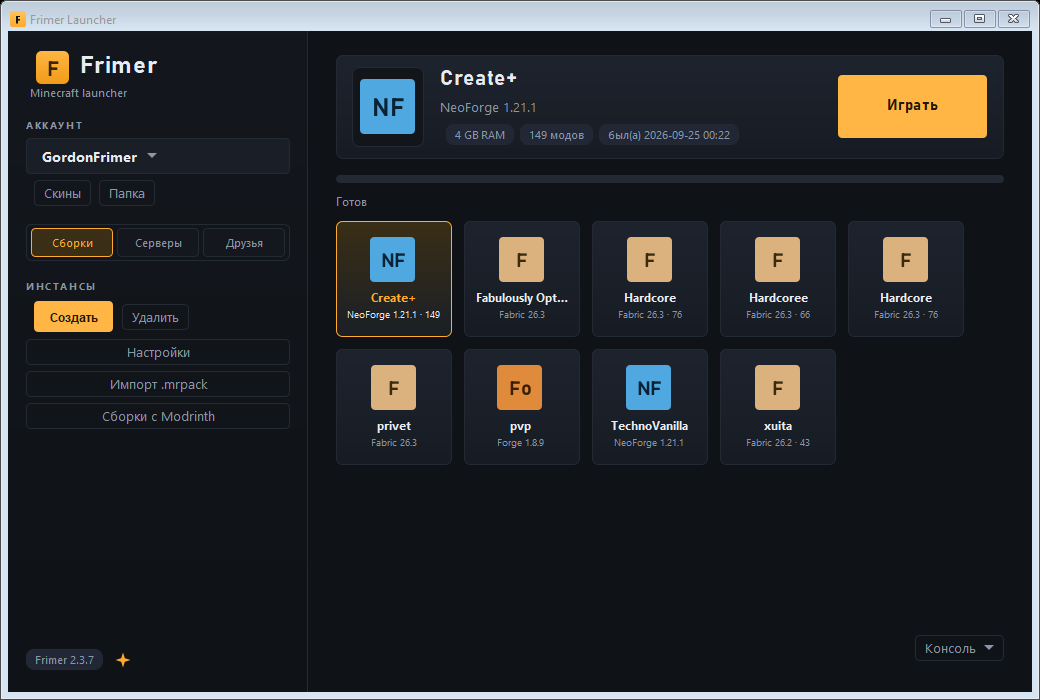
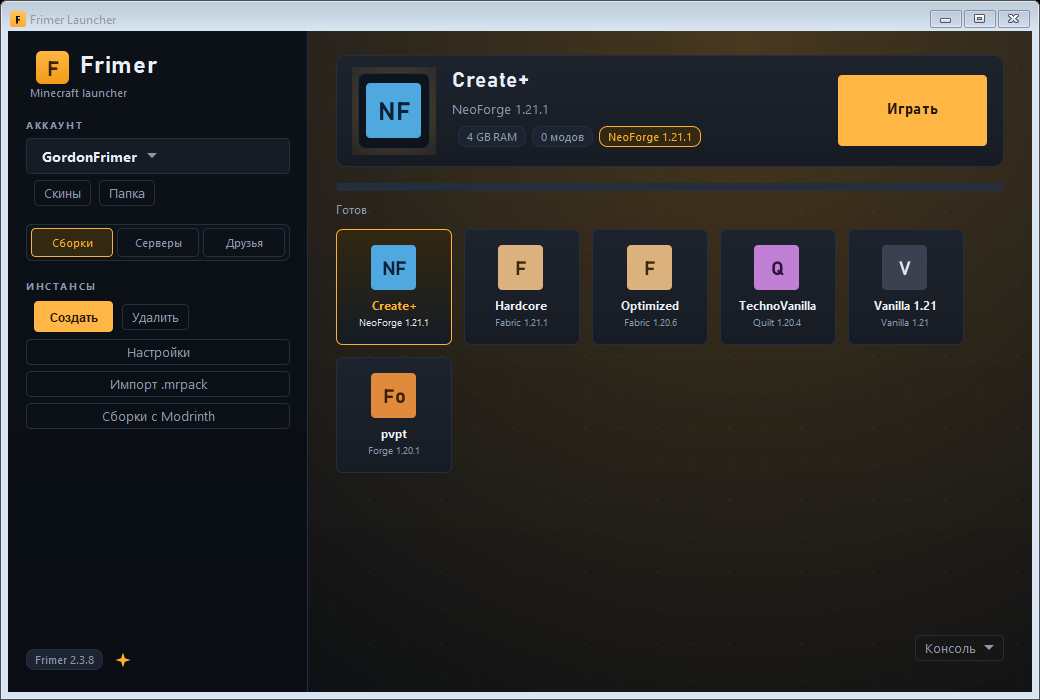
Версия 2.4.0: Ely.by, новый фон и редиректы HTTP
- Ely.by: загрузка скина по нику (skinsystem.ely.by), кнопка в разделе «Скины»
- ElyBy: профиль через authserver.ely.by, меню в диалоге скинов
- Http.getBytesFollowing: ручной проход редиректов https -> http (Ely.by отдаёт 301)
- дизайн: фон-градиент с янтарным свечением и сеткой точек, glow вокруг иконки сборки
- палитра стала глубже, hero-карточка крупнее с мягкими углами

Changed region(s): [[0.2769, 0.03, 1.0, 0.69]]

diff --git a/src/main/java/com/frimer/launcher/ui/Ui.java b/src/main/java/com/frimer/launcher/ui/Ui.java
@@ -1207,6 +1207,85 @@ public final class Ui {
         }
     }
 
+    /** Фон приложения: градиент, мягкое янтарное свечение и еле заметная сетка точек. */
+    public static final class Backdrop extends JPanel {
+        private static final long serialVersionUID = 1L;
+        private final Theme theme;
+
+        public Backdrop(Theme theme) {
+            this.theme = theme;
+            setOpaque(true);
+            setLayout(new java.awt.BorderLayout());
+        }
+
+        @Override
+        protected void paintComponent(Graphics g) {
+            Graphics2D g2 = (Graphics2D) g.create();
+            int w = getWidth();
+            int h = getHeight();
+            g2.setRenderingHint(RenderingHints.KEY_ANTIALIASING,
+                    RenderingHints.VALUE_ANTIALIAS_ON);
+            g2.setPaint(new java.awt.GradientPaint(0, 0, brighten(theme.bg, 1.35f), 0, Math.max(1, h),
+                    theme.bg));
+            g2.fillRect(0, 0, w, h);
+
+            float radius = Math.max(w, h) * 0.8f;
+            g2.setPaint(new java.awt.RadialGradientPaint(
+                    new java.awt.geom.Point2D.Float(w * 0.72f, h * 0.02f), radius,
+                    new float[]{0f, 1f},
+                    new Color[]{withAlpha(theme.accent, 62), withAlpha(theme.accent, 0)}));
+            g2.fillRect(0, 0, w, h);
+
+            g2.setColor(withAlpha(theme.text, 13));
+            int step = 36;
+            for (int x = step; x < w; x += step) {
+                for (int y = step; y < h; y += step) {
+                    g2.fillOval(x, y, 2, 2);
+                }
+            }
+            g2.dispose();
+        }
+    }
+
+    /** Мягкое радиальное свечение вокруг иконки. */
+    public static final class Glow extends JPanel {
+        private static final long serialVersionUID = 1L;
+        private final Theme theme;
+
+        public Glow(Theme theme) {
+            this.theme = theme;
+            setOpaque(false);
+            setLayout(new java.awt.BorderLayout());
+        }
+
+        @Override
+        protected void paintComponent(Graphics g) {
+            Graphics2D g2 = (Graphics2D) g.create();
+            g2.setRenderingHint(RenderingHints.KEY_ANTIALIASING,
+                    RenderingHints.VALUE_ANTIALIAS_ON);
+            int w = getWidth();
+            int h = getHeight();
+            float radius = Math.max(w, h) * 0.9f;
+            g2.setPaint(new java.awt.RadialGradientPaint(
+                    new java.awt.geom.Point2D.Float(w / 2f, h / 2f), radius,
+                    new float[]{0f, 1f},
+                    new Color[]{withAlpha(theme.accent, 70), withAlpha(theme.accent, 0)}));
+            g2.fillRect(0, 0, w, h);
+            g2.dispose();
+        }
+    }
+
+    static Color withAlpha(Color color, int alpha) {
+        return new Color(color.getRed(), color.getGreen(), color.getBlue(), alpha);
+    }
+
+    static Color brighten(Color color, float factor) {
+        return new Color(
+                Math.min(255, (int) (color.getRed() * factor)),
+                Math.min(255, (int) (color.getGreen() * factor)),
+                Math.min(255, (int) (color.getBlue() * factor)));
+    }
+
     /** Иконка окна: янтарный квадрат с буквой F — рисуется кодом, файлы не нужны. */
     public static BufferedImage appIcon() {
         int size = 128;

diff --git a/src/main/java/com/frimer/launcher/ui/MainFrame.java b/src/main/java/com/frimer/launcher/ui/MainFrame.java
@@ -78,6 +78,10 @@ public final class MainFrame extends JFrame {
     private JButton tabFriendsButton;
     private final java.awt.CardLayout contentCards = new java.awt.CardLayout();
     private final JPanel contentHolder = new JPanel(contentCards);
+
+    {
+        contentHolder.setOpaque(false);
+    }
     private FriendsPanel friendsPanel;
     private JLabel sectionLabel;
     private JButton newInstButton;
@@ -135,8 +139,7 @@ public final class MainFrame extends JFrame {
         setLocation(bounds.x + Math.max(0, (bounds.width - width) / 2),
                 bounds.y + Math.max(0, (bounds.height - height) / 2));
 
-        JPanel root = new JPanel(new BorderLayout());
-        root.setBackground(theme.bg);
+        JPanel root = new Ui.Backdrop(theme);
         sidebarPanel = buildSidebar();
         root.add(sidebarPanel, BorderLayout.WEST);
         contentHolder.add(buildContent(), "main");
@@ -457,7 +460,7 @@ public final class MainFrame extends JFrame {
 
     private JComponent buildContent() {
         JPanel content = new JPanel();
-        content.setBackground(theme.bg);
+        content.setOpaque(false);
         content.setLayout(new BoxLayout(content, BoxLayout.Y_AXIS));
         content.setBorder(new EmptyBorder(24, 28, 20, 28));
 
@@ -503,8 +506,10 @@ public final class MainFrame extends JFrame {
         content.add(Box.createVerticalStrut(12));
 
         tilesPanel = new WrapPanel(12);
-        tilesPanel.setBackground(theme.bg);
+        tilesPanel.setOpaque(false);
         tilesScroll = Ui.borderlessScroll(tilesPanel, theme);
+        tilesScroll.setOpaque(false);
+        tilesScroll.getViewport().setOpaque(false);
         tilesScroll.setAlignmentX(Component.LEFT_ALIGNMENT);
         content.add(tilesScroll);
 
@@ -593,13 +598,13 @@ public final class MainFrame extends JFrame {
 
     private Ui.Card buildHero() {
         Ui.Card hero = new Ui.Card(theme.card, theme.border);
-        hero.setRadius(14);
+        hero.setRadius(18);
         hero.setGradient(theme.cardTop(), theme.cardBottom());
         hero.setShadow(Ui.shadow(theme));
         hero.setLayout(new BorderLayout(16, 0));
         hero.setBorder(new EmptyBorder(12, 16, 12, 16));
-        hero.setMaximumSize(new Dimension(Integer.MAX_VALUE, 104));
-        hero.setPreferredSize(new Dimension(10, 104));
+        hero.setMaximumSize(new Dimension(Integer.MAX_VALUE, 112));
+        hero.setPreferredSize(new Dimension(10, 112));
 
         heroIcon = new JLabel();
         heroIcon.setHorizontalAlignment(SwingConstants.CENTER);
@@ -610,8 +615,8 @@ public final class MainFrame extends JFrame {
         iconBox.setPreferredSize(new Dimension(72, 72));
         iconBox.setMaximumSize(new Dimension(72, 72));
         iconBox.add(heroIcon, java.awt.BorderLayout.CENTER);
-        JPanel iconWrap = new JPanel(new java.awt.BorderLayout());
-        iconWrap.setOpaque(false);
+        Ui.Glow iconWrap = new Ui.Glow(theme);
+        iconWrap.setBorder(new EmptyBorder(6, 6, 6, 6));
         iconWrap.add(iconBox, java.awt.BorderLayout.CENTER);
         hero.add(iconWrap, BorderLayout.WEST);
 

diff --git a/src/main/java/com/frimer/launcher/core/ElyBy.java b/src/main/java/com/frimer/launcher/core/ElyBy.java
@@ -1,0 +1,72 @@
+package com.frimer.launcher.core;
+
+import java.net.URLEncoder;
+import java.nio.charset.StandardCharsets;
+import java.util.Map;
+
+/**
+ * Ely.by — русская система скинов и аккаунтов, совместимая с Mojang API.
+ *
+ * <p>Скины: {@code https://skinsystem.ely.by/skins/<ник>.png}. Если у игрока нет
+ * собственного скина Ely.by, сервис прозрачно отдаёт скин из Mojang.
+ */
+public final class ElyBy {
+
+    /** Документация: https://docs.ely.by/ru/skins-system.html */
+    public static final String SKIN_URL = "https://skinsystem.ely.by/skins/";
+    public static final String PROFILE_URL = "https://authserver.ely.by/api/users/profiles/minecraft/";
+
+    private ElyBy() {
+    }
+
+    /** Профиль на Ely.by: UUID и ник в нормальном регистре (или null, если ника нет). */
+    public static Profile profile(String nickname) {
+        String nick = clean(nickname);
+        if (nick.isEmpty()) {
+            return null;
+        }
+        try {
+            String body = Http.get(PROFILE_URL + encode(nick),
+                    Map.of("Accept", "application/json"));
+            if (body == null || body.isBlank()) {
+                return null;
+            }
+            Map<String, Object> json = Json.parseObject(body);
+            String id = Json.str(json.get("id"), "");
+            String name = Json.str(json.get("name"), nick);
+            return id.isEmpty() ? null : new Profile(id, name);
+        } catch (RuntimeException e) {
+            return null;
+        }
+    }
+
+    /** Текстура скина по нику: PNG 64×64 (или null, если текстуры нет). */
+    public static byte[] skin(String nickname) {
+        String nick = clean(nickname);
+        if (nick.isEmpty()) {
+            return null;
+        }
+        byte[] data = fetch(SKIN_URL + encode(nick) + ".png?version=2");
+        return data != null && data.length > 100 ? data : null;
+    }
+
+    private static byte[] fetch(String url) {
+        try {
+            return Http.getBytesFollowing(url);
+        } catch (RuntimeException e) {
+            return null;
+        }
+    }
+
+    private static String clean(String nickname) {
+        return nickname == null ? "" : nickname.strip().replaceAll("[\\s\\p{Cntrl}]", "");
+    }
+
+    private static String encode(String value) {
+        return URLEncoder.encode(value, StandardCharsets.UTF_8);
+    }
+
+    /** Профиль Ely.by. */
+    public record Profile(String uuid, String name) {
+    }
+}

diff --git a/src/main/java/com/frimer/launcher/ui/SkinDialog.java b/src/main/java/com/frimer/launcher/ui/SkinDialog.java
@@ -82,6 +82,8 @@ public final class SkinDialog extends Ui.FramelessDialog {
         fromFile.addActionListener(e -> addFromFile());
         JButton byNick = Ui.miniButton("По нику…", theme);
         byNick.addActionListener(e -> addByNick());
+        JButton byEly = Ui.miniButton("Ely.by…", theme);
+        byEly.addActionListener(e -> addByEly());
         JButton remove = Ui.miniButton("Удалить", theme);
         remove.addActionListener(e -> deleteSelected());
         JButton apply = Ui.primaryButton("Применить в сборки", theme);
@@ -91,7 +93,7 @@ public final class SkinDialog extends Ui.FramelessDialog {
 
         JPanel buttons = new JPanel(new BorderLayout(8, 0));
         buttons.setOpaque(false);
-        buttons.add(Ui.buttonRow(fromFile, byNick, remove, apply), BorderLayout.CENTER);
+        buttons.add(Ui.buttonRow(fromFile, byNick, byEly, remove, apply), BorderLayout.CENTER);
         buttons.add(close, BorderLayout.EAST);
 
         root.add(listScroll, BorderLayout.WEST);
@@ -173,6 +175,30 @@ public final class SkinDialog extends Ui.FramelessDialog {
             reload();
         } catch (RuntimeException e) {
             JOptionPane.showMessageDialog(this, e.getMessage(), "Не удалось получить скин",
+                    JOptionPane.ERROR_MESSAGE);
+        }
+    }
+
+    /** Скачать скин по нику с Ely.by (или проксированный Mojang-скин). */
+    private void addByEly() {
+        String nick = JOptionPane.showInputDialog(this,
+                "Ник на Ely.by:", "Скин с Ely.by", JOptionPane.PLAIN_MESSAGE);
+        if (nick == null || nick.isBlank()) {
+            return;
+        }
+        String clean = nick.strip();
+        byte[] data = com.frimer.launcher.core.ElyBy.skin(clean);
+        if (data == null) {
+            JOptionPane.showMessageDialog(this,
+                    "У Ely.by нет скина для «" + clean + "». Проверь ник.",
+                    "Скин не найден", JOptionPane.WARNING_MESSAGE);
+            return;
+        }
+        try {
+            Skins.addLocal(data, clean, "Ely.by: " + clean);
+            reload();
+        } catch (RuntimeException e) {
+            JOptionPane.showMessageDialog(this, e.getMessage(), "Не удалось сохранить скин",
                     JOptionPane.ERROR_MESSAGE);
         }
     }

diff --git a/src/main/java/com/frimer/launcher/core/Http.java b/src/main/java/com/frimer/launcher/core/Http.java
@@ -51,6 +51,33 @@ public final class Http {
         return resp.body();
     }
 
+    /**
+     * GET с ручным проходом по редиректам, включая https → http.
+     *
+     * <p>Java намеренно не следует «понижающим» редиректам ({@link HttpClient.Redirect#NORMAL}),
+     * а Ely.by отдаёт скины именно так: 301 с https на http-хранилище.
+     */
+    public static byte[] getBytesFollowing(String url) {
+        String current = url;
+        for (int hop = 0; hop < 6; hop++) {
+            HttpResponse<byte[]> resp = send(current, Map.of(),
+                    HttpResponse.BodyHandlers.ofByteArray());
+            int code = resp.statusCode();
+            if (code >= 200 && code < 300) {
+                return resp.body();
+            }
+            if (code < 300 || code >= 400) {
+                throw new ApiException("HTTP " + code + " для " + url, code);
+            }
+            String location = resp.headers().firstValue("Location").orElse("");
+            if (location.isBlank()) {
+                throw new ApiException("HTTP " + code + " без Location для " + url, code);
+            }
+            current = URI.create(current).resolve(location).toString();
+        }
+        throw new ApiException("Слишком много редиректов для " + url, 0);
+    }
+
     /** POST с телом (JSON или form-urlencoded). */
     public static String post(String url, String body, String contentType,
                               Map<String, String> headers) {

diff --git a/src/main/java/com/frimer/launcher/core/Changelog.java b/src/main/java/com/frimer/launcher/core/Changelog.java
@@ -15,6 +15,11 @@ public final class Changelog {
     /** Свежие версии сверху. */
     public static List<Entry> entries() {
         return List.of(
+                new Entry("2.4.0", "08.11.2026", List.of(
+                        "Скины с Ely.by: кнопка в разделе «Скины» — ник, и текстура берётся с skinsystem.ely.by",
+                        "Новый фон: градиент, янтарное свечение и сетка точек вместо плоской заливки",
+                        "Hero-карточка сборки с подсветкой вокруг иконки",
+                        "HTTP-клиент теперь проходит редиректы https → http (Ely.by отдаёт скины через 301)")),
                 new Entry("2.3.8", "05.11.2026", List.of(
                         "Discord Rich Presence включается галочкой в настройках — Application ID уже вписан",
                         "Белые окна и полосы: диалоги, кнопки, комбобоксы и спиннеры теперь в цветах темы",

diff --git a/src/main/java/com/frimer/launcher/ui/Theme.java b/src/main/java/com/frimer/launcher/ui/Theme.java
@@ -51,9 +51,9 @@ public final class Theme {
     }
 
     public static final Theme DARK = new Theme("dark",
-            "#0f1216", "#14181e", "#1a1f27", "#3a2f16", "#232a34",
-            "#e8ecf2", "#8b96a8", "#ffab2e", "#c47a12", "#ffc45c",
-            "#12161b", "#ff6b6b", "#ffcc66", "#7ad47a", "#212734", "#5b657a");
+            "#0a0e14", "#0d1219", "#151c26", "#332811", "#252e3c",
+            "#e9eef7", "#8d99ad", "#ffb02e", "#c47a12", "#ffd07a",
+            "#0e141b", "#ff6b6b", "#ffcc66", "#7ad47a", "#1c2431", "#5b657a");
 
     public static final Theme LIGHT = new Theme("light",
             "#f2f4f8", "#ffffff", "#ffffff", "#fff1d6", "#e1e6ee",

diff --git a/src/main/java/com/frimer/launcher/core/AppSettings.java b/src/main/java/com/frimer/launcher/core/AppSettings.java
@@ -10,7 +10,7 @@ public final class AppSettings {
 
     private static final Preferences PREFS = Preferences.userRoot().node("com/frimer/launcher");
 
-    public static final String APP_VERSION = "2.3.8";
+    public static final String APP_VERSION = "2.4.0";
 
     private AppSettings() {
     }

diff --git a/README.md b/README.md
@@ -80,6 +80,12 @@ java -jar FrimerLauncher.jar
 Сообщения идут через публичный MQTT-брокер, но шифруются AES-GCM ключом, который
 выводится из кодов друзей: без кода переписку не прочитать. Код — как пароль,
 не выкладывай его публично. Вкладка живёт, пока открыт лаунчер.
+## Скины и Ely.by
+
+В разделе **«Скины»** можно добавить текстуру из файла, по нику лицензионного игрока
+(через Mojang) или **кнопкой «Ely.by…»** — тогда скин берётся с `skinsystem.ely.by`
+по нику и применяется в сборки. Ely.by проксирует и премиум-скины Mojang, поэтому
+в большинстве случаев хватает одного ника.
 ## Discord Rich Presence
 
 В профиле Discord видно, во что ты играешь: сборку, загрузчик и версию.
